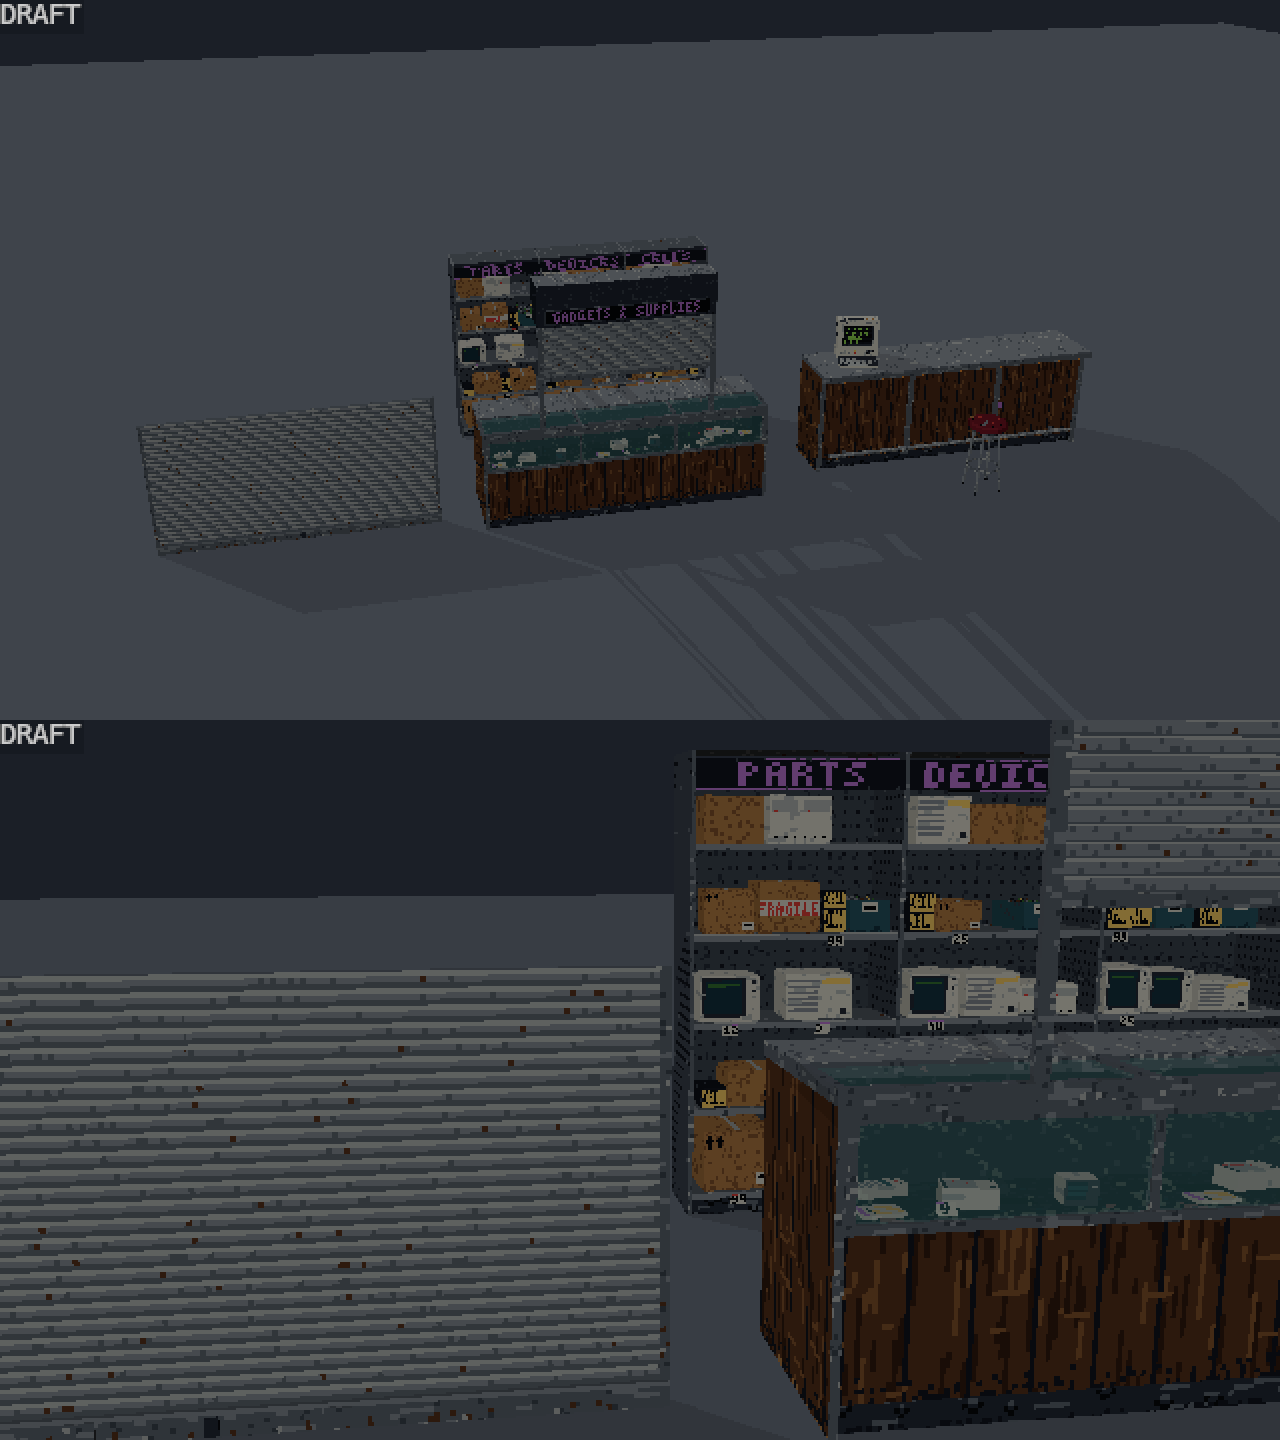
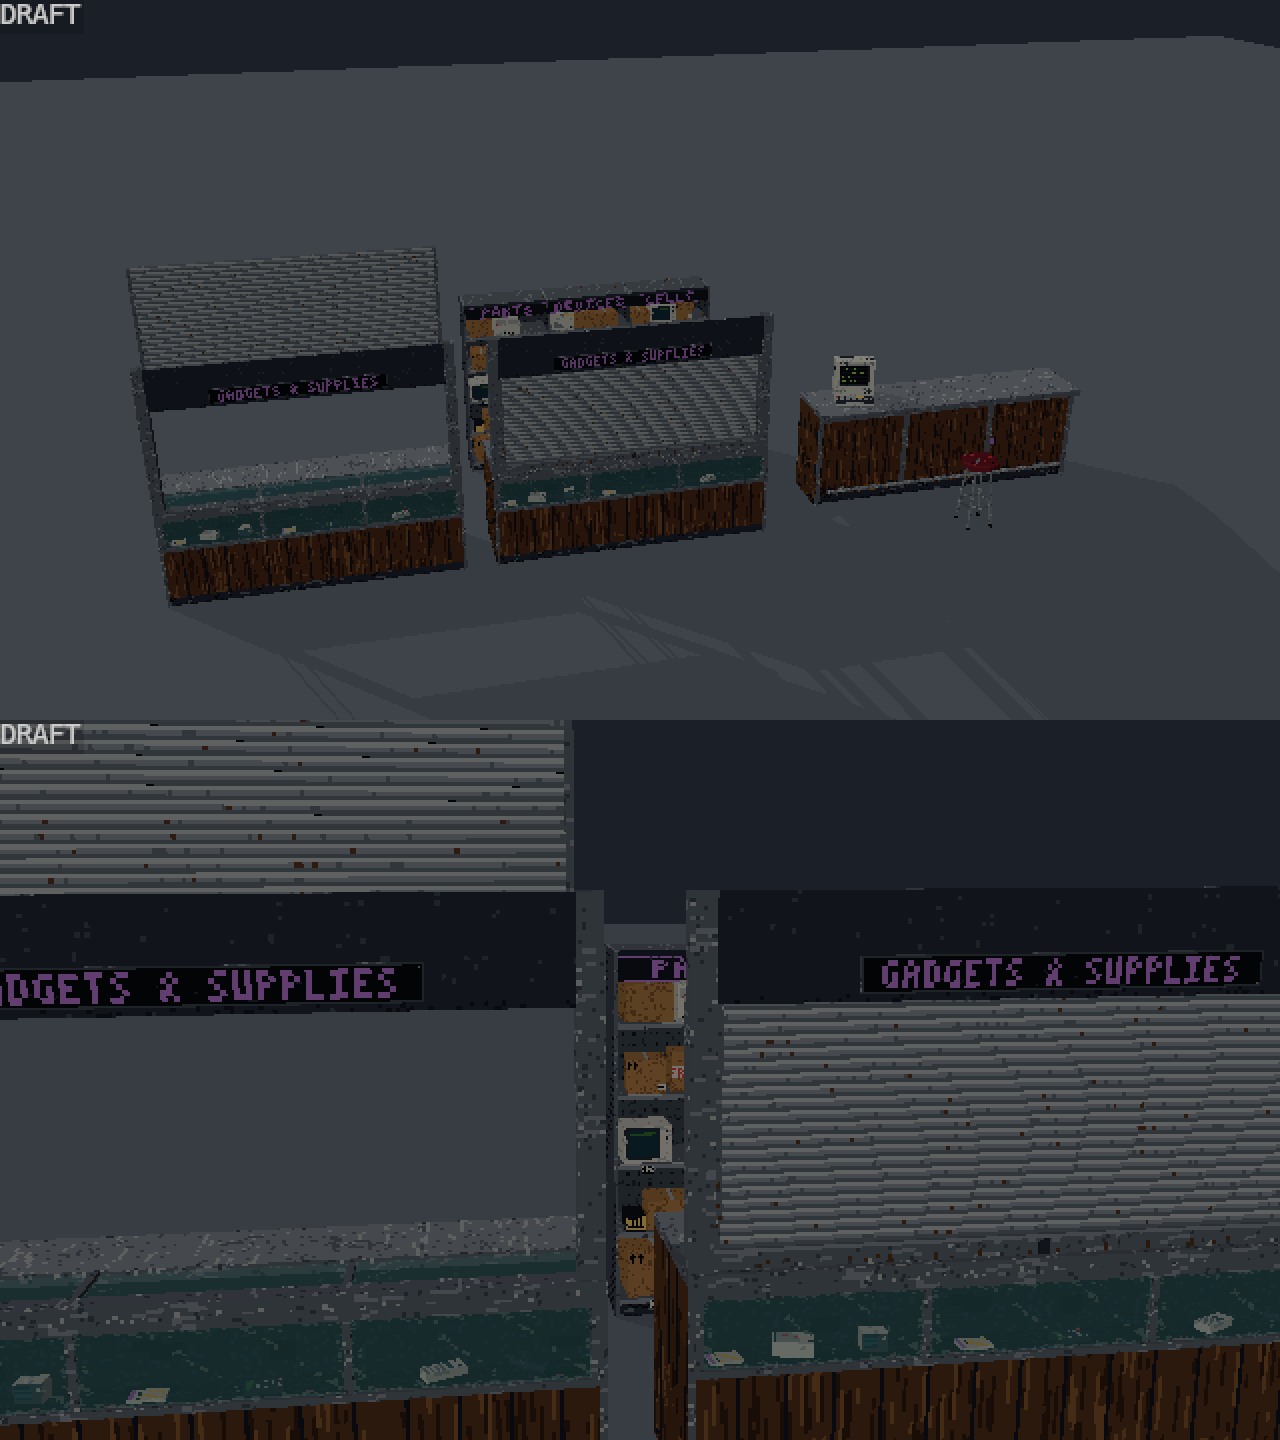
assets(P90): SM_Kiosk_Counter.fbx, T_Kiosk_Counter_Albedo.png - 510 tris, 2 materials
Rework without the grille (Issue #21): free opening, stiles, fascia and sign.
Fits SM_Kiosk_Shutter closed and open. Lineup shows both states mounted.

diff --git a/docs/ASSET-REQUESTS.md b/docs/ASSET-REQUESTS.md
@@ -1271,7 +1271,7 @@ feedback: []
 path: Assets/_Project/Art/Models/Kiosk/SM_Kiosk_Counter.fbx
 package: P11
 scene: Kiosk
-status: rework
+status: Vorschau
 priority: P1
 needed_by: 2026-11-16
 size_m: [0.8, 2.8, 2.4]
